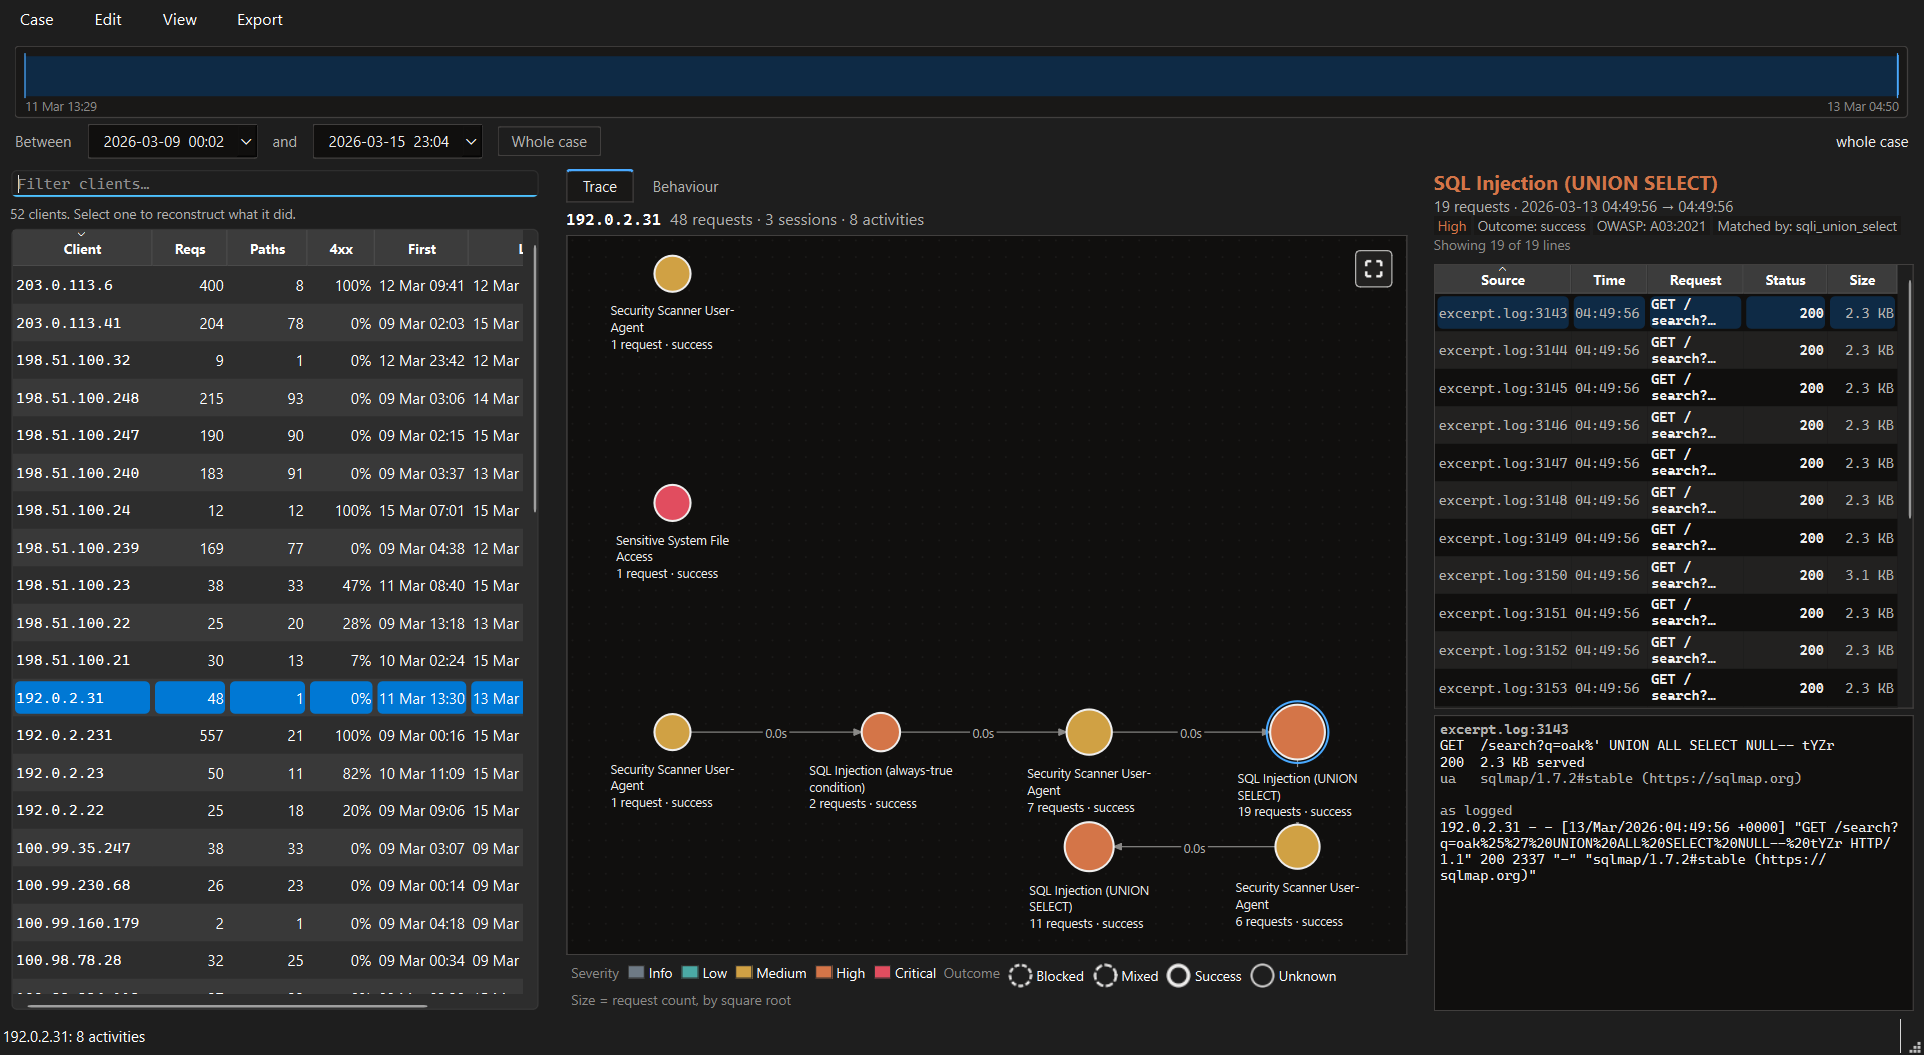
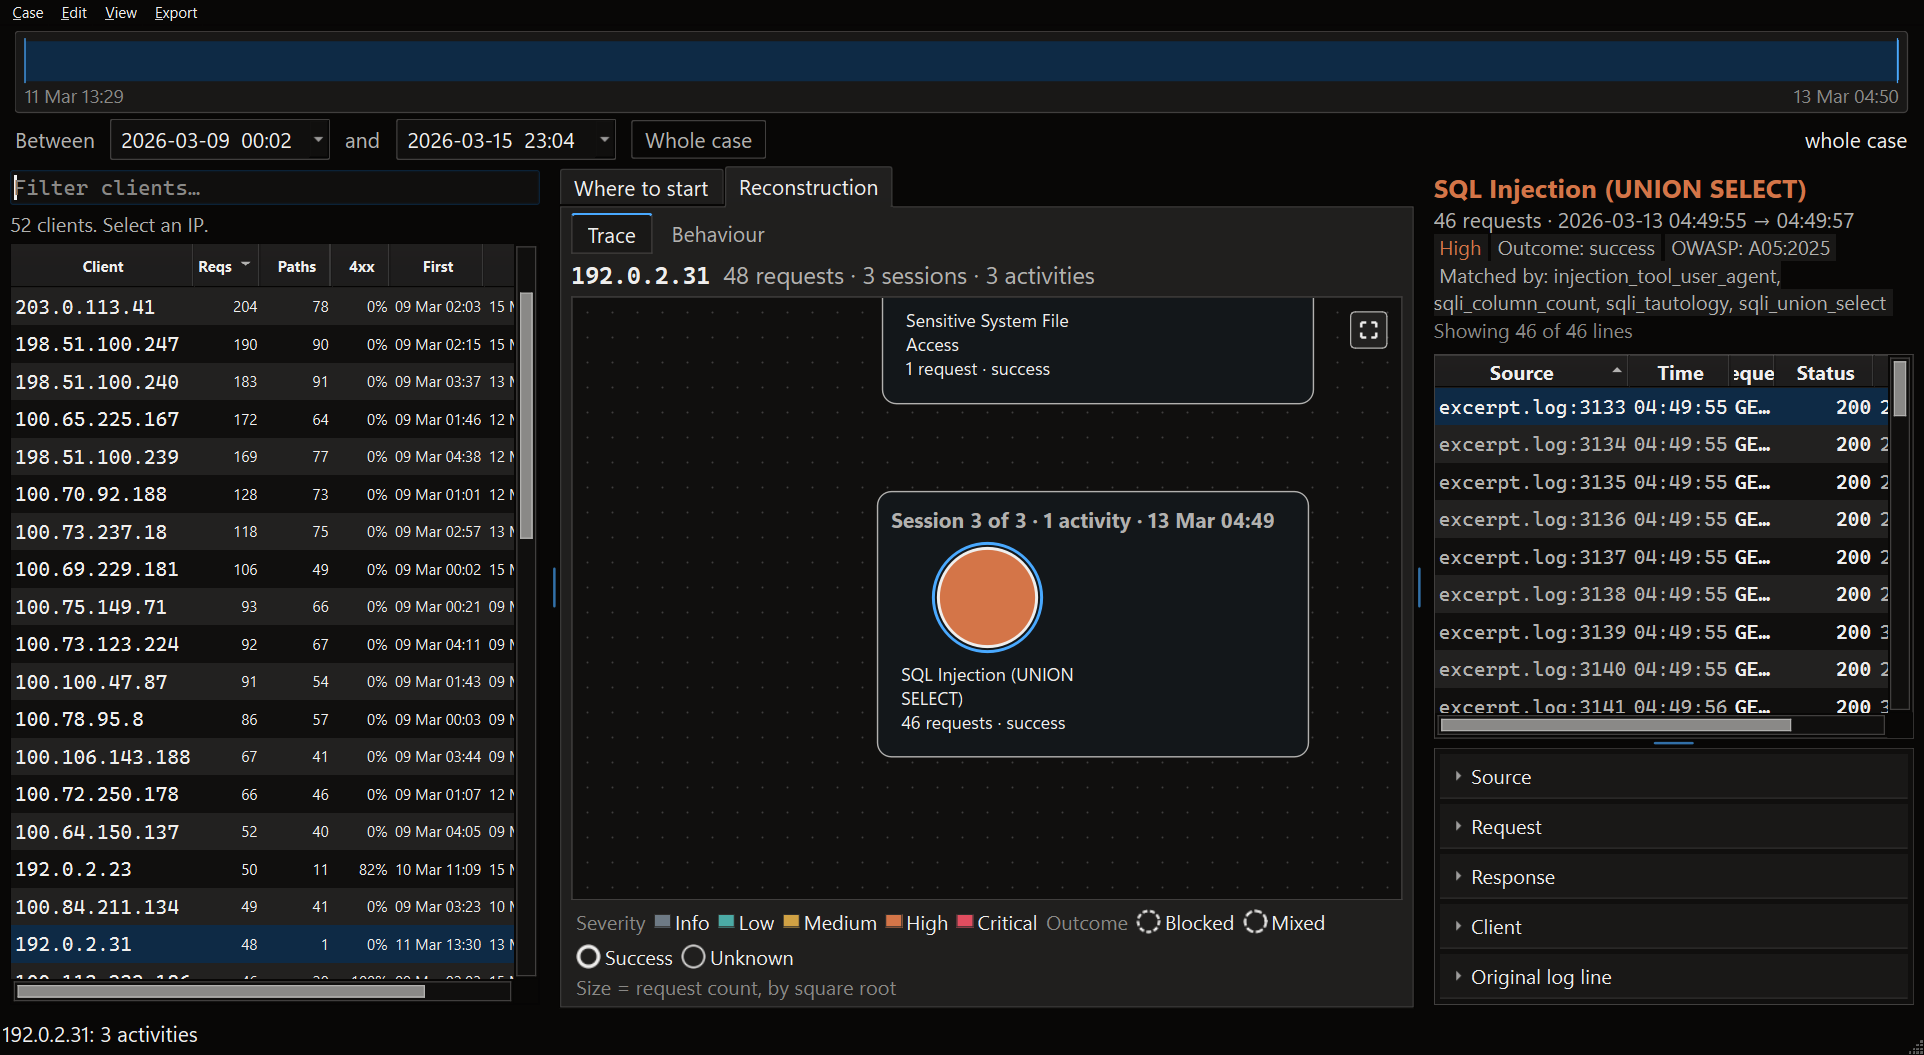
docs: sessions are boxed on the trace

diff --git a/docs/manual-test-plan.md b/docs/manual-test-plan.md
@@ -872,6 +872,34 @@ candidates the ordering is the thing most likely to be wrong.
 
 ---
 
+## 22. Each session is boxed, and the boxes can be turned off
+
+1. Reconstruct `192.0.2.231` from the shopfront excerpt.
+
+**Pass:** every session is in a faint blue box labelled `Session k of 69 ·
+n activities · time`. No caption carries a darker square behind it. No two
+boxes touch.
+
+2. Drag an activity well to the right of its row, then press Ctrl+Z.
+
+**Pass:** the box stretches to hold it while it is away, and shrinks back
+with it.
+
+3. Press inside a box on empty ground and drag.
+
+**Pass:** the view pans. Nothing is selected.
+
+4. **Edit → Preferences… → Graph → Outline each session**, off, OK.
+
+**Pass:** the boxes go. Nothing moves, the zoom stays, and Ctrl+Z still takes
+back the drag from step 2.
+
+5. Switch to **Behaviour**.
+
+**Pass:** no boxes there, whichever way the preference is set.
+
+---
+
 ## Recording a run
 
 | # | Check | Result | Notes |
@@ -897,5 +925,6 @@ candidates the ordering is the thing most likely to be wrong.
 | 19 | An IIS log reads from its own header; its directives are not quarantined | | |
 | 20 | A pattern reads a syslog-wrapped log; a year-less time format is refused | | |
 | 21 | The fourteen shipped formats read as a list you can choose from | | |
+| 22 | Sessions are boxed; the boxes follow a drag and can be turned off | | |
 
 Version tested: ______  ·  Date: ______  ·  Machine: ______

diff --git a/docs/desktop-app.md b/docs/desktop-app.md
@@ -45,8 +45,9 @@ and respects existing environment settings. For a larger cursor, launch with
 first thing anyone looks for there.
 
 Several behaviours that read like menu items are **preferences**, under
-**Edit → Preferences…**: *Wrap long traces*, *Show the traffic band*, and
-*Reopen the last case on start*. They are remembered between launches.
+**Edit → Preferences…**: *Wrap long traces*, *Outline each session*, *Show the
+traffic band*, and *Reopen the last case on start*. They are remembered between
+launches.
 
 ---
 
@@ -110,6 +111,13 @@ on one line is as wide as it is long and shrinks to an unreadable smudge when
 fitted to the window. The *Wrap long traces* preference turns the fold off when
 the straight timeline is worth more than legible captions; the graph is then
 panned rather than fitted, opening on its first activity.
+
+Each session sits in a box of its own, labelled with its number, how many
+activities it holds and when it ran, such as `Session 2 of 69 · 2 activities ·
+09 Mar 01:55–02:26`. That gives the session count in the header something on the
+canvas to point to. A box follows its activities when they are dragged. The
+*Outline each session* preference turns the boxes off, and nothing moves when
+it does.
 
 ![The behaviour map: 557 requests folded into five activities](images/screenshot-behaviour.png)
 

diff --git a/README.md b/README.md
@@ -18,9 +18,9 @@ browsing → reconnaissance → directory enumeration → SQL injection → data
 
 Every box links back to the exact raw log lines that produced it.
 
-![The logarc window: the client list, one client's trace, and the 19 log lines behind the selected SQL injection](docs/images/screenshot-trace.png)
+![The logarc window: the client list, one client's trace with each session in a box, and the 46 log lines behind the selected SQL injection](docs/images/screenshot-trace.png)
 
-<sub>sqlmap against a shop. The selected activity is 19 requests of `UNION ALL SELECT`, and the outcome is **success** — the server answered 200. The panel on the right is the evidence: line numbers, statuses, and the raw line exactly as Apache wrote it.</sub>
+<sub>sqlmap against a shop, in the last of three sessions. The selected activity is 46 requests — 30 `UNION ALL SELECT`, 11 always-true conditions, one column count, and four known only by sqlmap's user agent — and the outcome is **success**: the server answered 200 to every one. The panel on the right is the evidence: line numbers, statuses, and the raw line exactly as Apache wrote it.</sub>
 
 ---
 
